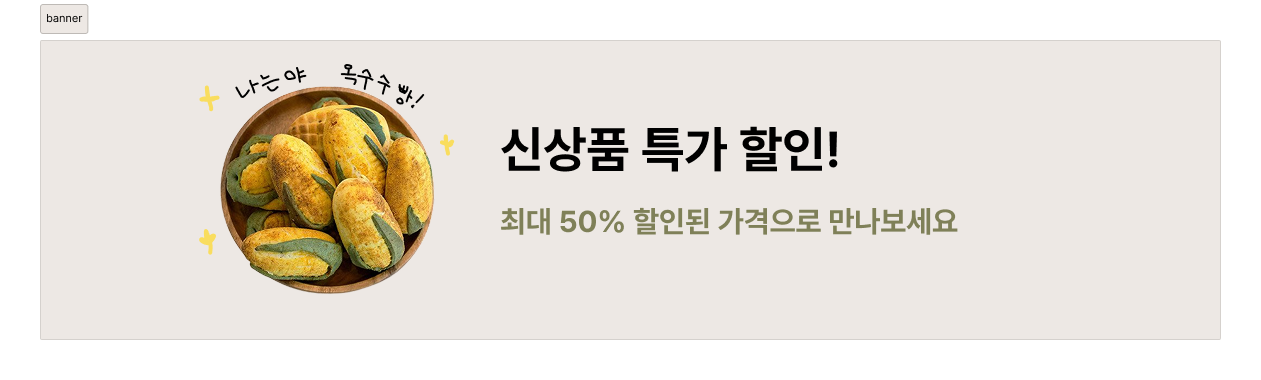
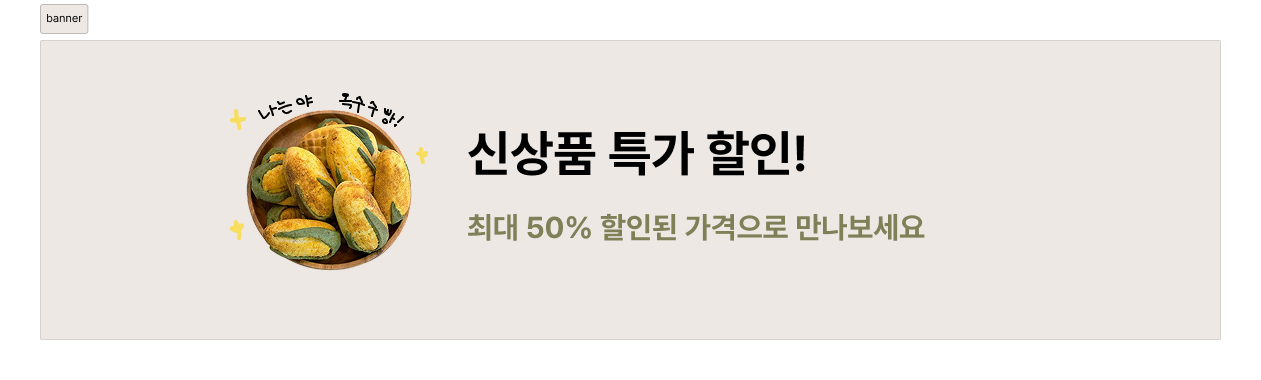
상품 적용

Changed region(s): [[0.1546, 0.1737, 0.6804, 0.7816], [0.3711, 0.55, 0.7732, 0.6368]]

diff --git a/routes/user.js b/routes/user.js
@@ -17,15 +17,33 @@ router.post('/register', async (req, res) => {
     const { username, password, name } = req.body;
     const hashedPassword = await bcrypt.hash(password, 10);
 
+        // 회원가입 시 필수 필드 확인
+    if (!username || !password || !name) {
+        return res.status(400).send('모든 필드를 입력해주세요.');
+    }
+
+        // 회원가입 시 중복 확인
+    db.get('SELECT id FROM users WHERE username = ?', [username], (err, row) => {
+        if (row) {
+        return res.send('이미 존재하는 사용자명입니다.');
+        }
+        // ...회원가입 처리 계속
+    });
+
+    // 회원가입 처리
     db.run(
         'INSERT INTO users (username, password, name) VALUES (?, ?, ?)',
         [username, hashedPassword, name],
-        (err) => {
+        function(err) {
             if (err) {
-                console.error(err.message);
-                return res.send('회원가입 실패');
+                db.run('ROLLBACK');
+                throw err;
             }
-            res.redirect('/user/login');
+            
+            db.run('COMMIT');
+            req.session.userId = this.lastID;
+            req.session.username = username;
+            res.redirect('/');
         }
     );
 });
@@ -35,24 +53,41 @@ router.get('/login', (req, res) => {
     res.render('login');
 });
 
-// 로그인 처리
+// 로그인 처리 (개선된 버전)
 router.post('/login', (req, res) => {
     const { username, password } = req.body;
 
-    db.get('SELECT * FROM users WHERE username = ?', [username], async (err, user) => {
-        if (err || !user) {
-            return res.send('존재하지 않는 사용자입니다.');
-        }
+    if (!username || !password) {
+        return res.render('login', { error: '아이디와 비밀번호를 입력해주세요.' });
+    }
 
-        const match = await bcrypt.compare(password, user.password);
-        if (match) {
-            req.session.userId = user.id;
-            req.session.username = user.username;
-            res.redirect('/');
-        } else {
-            res.send('비밀번호가 일치하지 않습니다.');
-        }
-    });
+    try {
+        db.get('SELECT * FROM users WHERE username = ?', [username], async (err, user) => {
+            if (err) throw err;
+            
+            if (!user) {
+                return res.render('login', {
+                    error: '아이디 또는 비밀번호가 잘못되었습니다.'
+                });
+            }
+            
+            const match = await bcrypt.compare(password, user.password);
+            if (match) {
+                req.session.userId = user.id;
+                req.session.username = user.username;
+                return res.redirect('/');
+            } else {
+                res.render('login', {
+                    error: '아이디 또는 비밀번호가 잘못되었습니다.'
+                });
+            }
+        });
+    } catch (err) {
+        console.error(err);
+        res.status(500).render('login', {
+            error: '로그인 처리 중 오류가 발생했습니다.'
+        });
+    }
 });
 
 // 로그아웃

diff --git a/public/stylesheets/index.css b/public/stylesheets/index.css
@@ -106,16 +106,18 @@ nav a:hover::after {
 }
 
 .banner {
-  width: 100%;
-  height: 400px;
+  width: 80%;
+  height: 300px;
   overflow: hidden;
   position: relative;
+  margin: 0 auto; /* 수평 중앙 정렬 */
 }
 
 .banner img {
   width: 100%;
   height: 100%;
   object-fit: cover;
+  object-position: center;
 }
 
 .banner-text {
